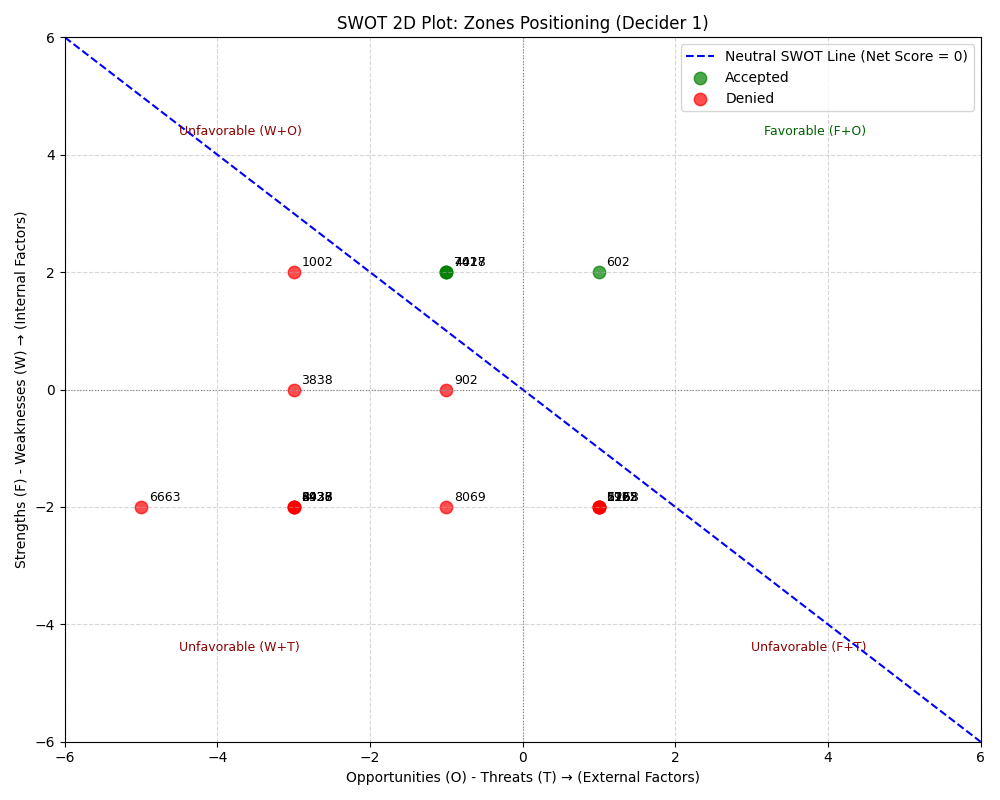
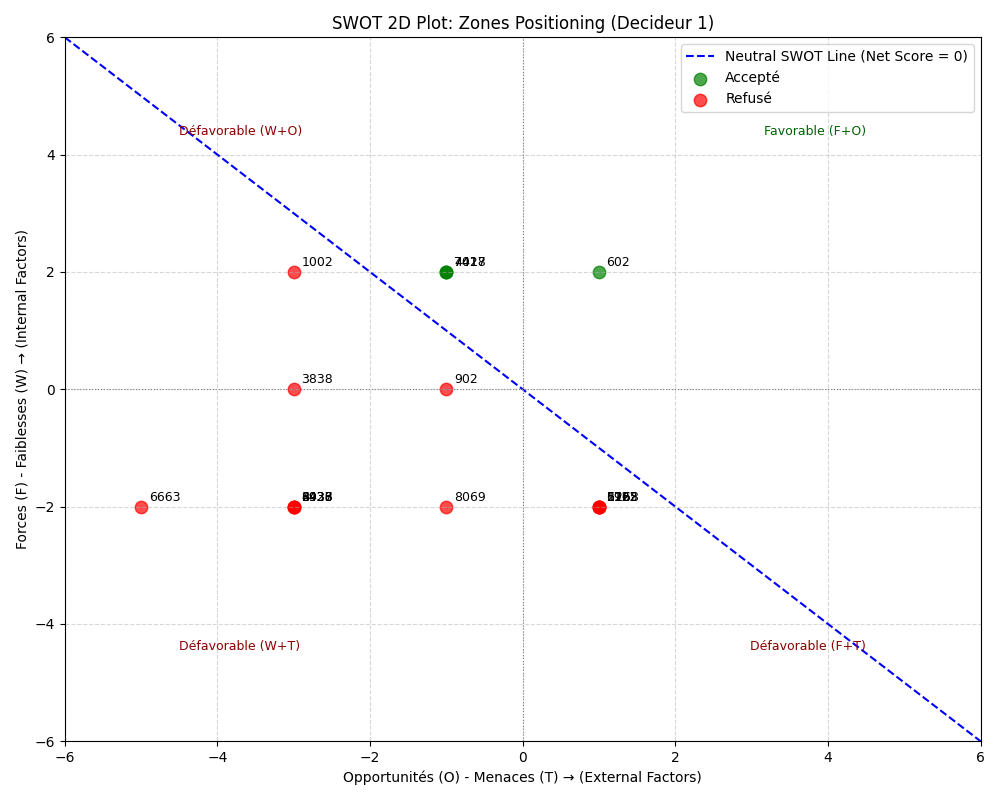
add promethee_minimize

diff --git a/core/decideur_logic.py b/core/decideur_logic.py
@@ -7,7 +7,7 @@ import matplotlib.pyplot as plt
 import os
 from io import StringIO
 
-# Ensure the 'static/images' directory exists for plots
+# Assurez-vous que le répertoire 'static/images' existe pour les plots
 PLOTS_DIR = os.path.join(os.getcwd(), 'static', 'images')
 os.makedirs(PLOTS_DIR, exist_ok=True)
 
@@ -107,7 +107,7 @@ def promethee_ii(columns, data_np, ids, w, p, q, maximize):
 
     return result, preference_matrix_df, discordance_matrix_df
 
-# --- SWOT Analysis Function ---
+# --- SWOT Analysis Function (No changes needed here) ---
 
 def calculate_swot_status(row, criteria_cols):
     swot_scores = {
@@ -171,24 +171,27 @@ def calculate_swot_status(row, criteria_cols):
 
 # --- Main Flask Logic Function ---
 
-def run_decideur_analysis(decideur_id, new_data_matrix_str, poids_str, seuil_p_str, seuil_q_str):
+def run_decideur_analysis(decideur_id, new_data_matrix_str, poids_str, seuil_p_str, seuil_q_str, promethee_manimize_flags=None):
+    if promethee_manimize_flags is None:
+        promethee_manimize_flags = [True, True, True, True, True, True, False]
+        
     try:
         try:
             poids = np.array([float(x.strip()) for x in poids_str.split(',') if x.strip()])
             seuil_p = np.array([float(x.strip()) for x in seuil_p_str.split(',') if x.strip()])
             seuil_q = np.array([float(x.strip()) for x in seuil_q_str.split(',') if x.strip()])
         except ValueError:
-            raise ValueError("Weights or thresholds (p, q) are badly formatted. Please use comma-separated numbers.")
+            raise ValueError("Les poids ou les seuils (p, q) sont mal formatés. Veuillez utiliser des nombres séparés par des virgules.")
         
         if poids.size == 0 or seuil_p.size == 0 or seuil_q.size == 0:
-            raise ValueError("Weight or threshold (p, q) lists cannot be empty. Please provide values.")
+            raise ValueError("Les listes de poids ou de seuils (p, q) ne peuvent pas être vides. Veuillez fournir des valeurs.")
 
         criteria_cols = ['NUISANCES', 'BRUIT', 'IMPACTS', 'GEOTECHNIQ', 'EQUIPEMENT', 'ACCESSIBIL', 'CLIMAT']
         
         if not (len(poids) == len(criteria_cols) and 
                 len(seuil_p) == len(criteria_cols) and 
                 len(seuil_q) == len(criteria_cols)):
-            raise ValueError(f"Inconsistency: The number of criteria ({len(criteria_cols)}) does not match the number of weights ({len(poids)}), preference thresholds ({len(seuil_p)}), or indifference thresholds ({len(seuil_q)}) provided. Please check your inputs.")
+            raise ValueError(f"Incohérence: Le nombre de critères ({len(criteria_cols)}) ne correspond pas au nombre de poids ({len(poids)}), seuils de préférence ({len(seuil_p)}) ou seuils d'indifférence ({len(seuil_q)}) fournis. Veuillez vérifier vos entrées.")
 
         selected_params = {
             'poids': poids.tolist(),
@@ -201,47 +204,45 @@ def run_decideur_analysis(decideur_id, new_data_matrix_str, poids_str, seuil_p_s
         if not new_data_matrix_str:
             nearest_points_path = os.path.join(os.path.dirname(__file__), '..', 'data', 'nearest_points_to_centroids.csv')
             if not os.path.exists(nearest_points_path):
-                raise FileNotFoundError(f"The file '{os.path.basename(nearest_points_path)}' is missing. It is generated by the K-Means analysis in the 'Negotiator Analysis' page.")
+                raise FileNotFoundError(f"Le fichier '{os.path.basename(nearest_points_path)}' est introuvable. Il est généré par l'analyse K-Means dans la page 'Analyse Négociateur'.")
             
             try:
                 df_input = pd.read_csv(nearest_points_path)
                 df_input.columns = df_input.columns.str.strip()
                 if 'ID_ZONE' not in df_input.columns:
-                     raise KeyError(f"The file '{os.path.basename(nearest_points_path)}' must contain a column 'ID_ZONE'.")
+                     raise KeyError(f"Le fichier '{os.path.basename(nearest_points_path)}' doit contenir une colonne 'ID_ZONE'.")
                 if not all(col in df_input.columns for col in criteria_cols):
                     missing_cols = [col for col in criteria_cols if col not in df_input.columns]
-                    raise KeyError(f"The file '{os.path.basename(nearest_points_path)}' does not contain all columns needed for PROMETHEE II analysis (missing: {', '.join(missing_cols)}).")
+                    raise KeyError(f"Le fichier '{os.path.basename(nearest_points_path)}' ne contient pas toutes les colonnes nécessaires pour l'analyse PROMETHEE II (manquantes : {', '.join(missing_cols)}).")
                 df_input = df_input[['ID_ZONE'] + criteria_cols].copy()
-                print(f"Data loaded from {os.path.basename(nearest_points_path)}")
+                print(f"Données chargées depuis {os.path.basename(nearest_points_path)}")
             except Exception as e:
-                raise ValueError(f"Error loading or processing the file '{os.path.basename(nearest_points_path)}': {e}")
+                raise ValueError(f"Erreur lors du chargement ou du traitement du fichier '{os.path.basename(nearest_points_path)}': {e}")
         else:
             new_data_io = StringIO(new_data_matrix_str)
             try:
                 df_input = pd.read_csv(new_data_io, header=None, names=['ID_ZONE'] + criteria_cols)
             except Exception as e:
-                raise ValueError(f"Error reading the provided Data Matrix: {e}. Make sure the format is correct (CSV type, no header, comma-separated columns) and the number of columns is correct.")
+                raise ValueError(f"Erreur lors de la lecture de la Matrice de Données fournie : {e}. Assurez-vous que le format est correct (type CSV, sans en-tête, colonnes séparées par des virgules) et que le nombre de colonnes est correct.")
             
             df_input['ID_ZONE'] = df_input['ID_ZONE'].astype(int)
             for col in criteria_cols:
                 df_input[col] = pd.to_numeric(df_input[col], errors='coerce')
             df_input.dropna(subset=criteria_cols, inplace=True)
-            print("Data loaded from the text area input.")
+            print("Données chargées à partir de l'entrée de la zone de texte.")
 
         if df_input.empty:
-            raise ValueError("No valid data could be loaded for analysis.")
+            raise ValueError("Aucune donnée valide n'a pu être chargée pour l'analyse.")
 
         ids = df_input['ID_ZONE'].values
         X = df_input[criteria_cols].values
 
-        promethee_maximize_flags = [True, True, True, True, True, True, False]
-        
-        ranking, preference_matrix_df, discordance_matrix_df = promethee_ii(criteria_cols, X, ids, poids, seuil_p, seuil_q, promethee_maximize_flags)
+        ranking, preference_matrix_df, discordance_matrix_df = promethee_ii(criteria_cols, X, ids, poids, seuil_p, seuil_q, promethee_manimize_flags)
 
         df_swot_calculated = df_input.apply(lambda row: calculate_swot_status(row, criteria_cols), axis=1)
         
         swot_columns_to_merge = ['ID_ZONE', 'F', 'W', 'O', 'T', 'Net_SWOT_Score', 'SWOT_Status', 'X_SWOT', 'Y_SWOT']
-        df_swot_final_for_plot_and_display = df_swot_calculated[swot_columns_to_merge].copy()
+        df_swot_final_for_plot_and_display = df_swot_calculated[swot_columns_to_merge].copy() # Renamed for clarity
 
         ranking_with_swot = pd.merge(ranking, df_swot_final_for_plot_and_display, on='ID_ZONE', how='left')
 
@@ -253,23 +254,24 @@ def run_decideur_analysis(decideur_id, new_data_matrix_str, poids_str, seuil_p_s
 
         def apply_decision(row, top_n_limit):
             if row['Rank'] <= top_n_limit:
-                return "Accepted" if row['SWOT_Status'] == "Positive SWOT" else "Denied"
+                return "Accepté" if row['SWOT_Status'] == "Positive SWOT" else "Refusé"
             else:
-                return "Denied"
+                return "Refusé"
 
         ranking_with_swot['Decision'] = ranking_with_swot.apply(lambda row: apply_decision(row, top_n), axis=1)
 
+        # final_result_for_display still contains X_SWOT and Y_SWOT for plotting
         final_result_for_display = ranking_with_swot[['ID_ZONE', 'Rank', 'SWOT_Status', 'Decision', 'X_SWOT', 'Y_SWOT']].copy()
-        print("\n=== Final Decision (All actions, top 50% evaluated by SWOT) ===")
+        print("\n=== Décision Finale (Toutes les actions, top 50% évalué par SWOT) ===")
         print(final_result_for_display)
         
         # Prepare data for CSV file (EXCLUDE X_SWOT, Y_SWOT)
-        final_result_for_save = ranking_with_swot[['ID_ZONE', 'Rank', 'SWOT_Status', 'Decision']].copy()
+        final_result_for_save = ranking_with_swot[['ID_ZONE', 'Rank', 'SWOT_Status', 'Decision']].copy() # Exclude X_SWOT, Y_SWOT
         
         decision_filename = f"decision_final_decideur_{decideur_id}.csv"
         decision_file_path = os.path.join(os.path.dirname(__file__), '..', 'data', decision_filename)
-        final_result_for_save.to_csv(decision_file_path, index=False, encoding='utf-8-sig')
-        print(f"\nDecision file '{decision_filename}' saved for the negotiator.")
+        final_result_for_save.to_csv(decision_file_path, index=False, encoding='utf-8-sig') # Save this version
+        print(f"\nFichier de décision '{decision_filename}' sauvegardé pour le négociateur.")
 
         # --- Generate SWOT Plot ---
         plt.figure(figsize=(10, 8))
@@ -279,25 +281,25 @@ def run_decideur_analysis(decideur_id, new_data_matrix_str, poids_str, seuil_p_s
         x_line = np.linspace(-plot_limit, plot_limit, 100)
         plt.plot(x_line, -x_line, color='blue', linestyle='--', label='Neutral SWOT Line (Net Score = 0)')
 
-        colors_map = {'Accepted': 'green', 'Denied': 'red'}
+        colors_map = {'Accepté': 'green', 'Refusé': 'red'}
 
         if not final_result_for_display.empty:
-            accepted_points = final_result_for_display[final_result_for_display['Decision'] == 'Accepted']
-            refused_points = final_result_for_display[final_result_for_display['Decision'] == 'Denied']
+            accepted_points = final_result_for_display[final_result_for_display['Decision'] == 'Accepté']
+            refused_points = final_result_for_display[final_result_for_display['Decision'] == 'Refusé']
 
             if not accepted_points.empty:
                 plt.scatter(accepted_points['X_SWOT'], accepted_points['Y_SWOT'], 
-                            color=colors_map['Accepted'], s=80, alpha=0.7, label='Accepted')
+                            color=colors_map['Accepté'], s=80, alpha=0.7, label='Accepté')
             if not refused_points.empty:
                 plt.scatter(refused_points['X_SWOT'], refused_points['Y_SWOT'], 
-                            color=colors_map['Denied'], s=80, alpha=0.7, label='Denied')
+                            color=colors_map['Refusé'], s=80, alpha=0.7, label='Refusé')
 
             for i, row in final_result_for_display.iterrows():
                 plt.text(row['X_SWOT'] + 0.1, row['Y_SWOT'] + 0.1, str(int(row['ID_ZONE'])), fontsize=9, color='black')
 
-        plt.title(f"SWOT 2D Plot: Zones Positioning (Decider {decideur_id})")
-        plt.xlabel("Opportunities (O) - Threats (T) → (External Factors)")
-        plt.ylabel("Strengths (F) - Weaknesses (W) → (Internal Factors)")
+        plt.title(f"SWOT 2D Plot: Zones Positioning (Decideur {decideur_id})")
+        plt.xlabel("Opportunités (O) - Menaces (T) → (External Factors)")
+        plt.ylabel("Forces (F) - Faiblesses (W) → (Internal Factors)")
 
         plt.xlim(-plot_limit, plot_limit)
         plt.ylim(-plot_limit, plot_limit)
@@ -306,9 +308,9 @@ def run_decideur_analysis(decideur_id, new_data_matrix_str, poids_str, seuil_p_s
         plt.axhline(0, color='grey', linestyle=':', linewidth=0.8)
         
         plt.text(0.75 * plot_limit, 0.75 * plot_limit, "Favorable (F+O)", fontsize=9, color='darkgreen', ha='right', va='top')
-        plt.text(0.75 * plot_limit, -0.75 * plot_limit, "Unfavorable (F+T)", fontsize=9, color='darkred', ha='right', va='bottom')
-        plt.text(-0.75 * plot_limit, 0.75 * plot_limit, "Unfavorable (W+O)", fontsize=9, color='darkred', ha='left', va='top')
-        plt.text(-0.75 * plot_limit, -0.75 * plot_limit, "Unfavorable (W+T)", fontsize=9, color='darkred', ha='left', va='bottom')
+        plt.text(0.75 * plot_limit, -0.75 * plot_limit, "Défavorable (F+T)", fontsize=9, color='darkred', ha='right', va='bottom')
+        plt.text(-0.75 * plot_limit, 0.75 * plot_limit, "Défavorable (W+O)", fontsize=9, color='darkred', ha='left', va='top')
+        plt.text(-0.75 * plot_limit, -0.75 * plot_limit, "Défavorable (W+T)", fontsize=9, color='darkred', ha='left', va='bottom')
 
         plt.grid(True, linestyle='--', alpha=0.5)
         plt.legend()
@@ -336,10 +338,11 @@ def run_decideur_analysis(decideur_id, new_data_matrix_str, poids_str, seuil_p_s
             'preference_matrix': preference_matrix_display,
             'discordance_matrix': discordance_matrix_display,
             'ranking_table': ranking.to_html(classes='table table-striped table-bordered', index=False),
+            # IMPORTANT: Use the new variable here that excludes X_SWOT and Y_SWOT for HTML display
             'final_decision_data': final_decision_table_data_for_html, 
             'swot_plot_path': '/static/images/' + plot_filename
         }
 
     except Exception as e:
-        print(f"Error in run_decideur_analysis: {e}")
+        print(f"Erreur dans run_decideur_analysis: {e}")
         raise e

diff --git a/app.py b/app.py
@@ -72,6 +72,9 @@ DECIDER_PRESET_PARAMS = {
         'seuil_q': [0.25, 0.3, 0.15, 45, 3, 0.25, 0.25]},
 }
 
+# Global PROMETHEE maximize flags (default)
+PROMETHEE_MINIMIZE_FLAGS = [True, True, True, True, True, True, False]
+
 # Utility function for cleaning up files
 def cleanup_decision_files():
     """Removes decision files and the nearest_points_to_centroids.csv file."""
@@ -179,7 +182,8 @@ def decideur_page():
                 new_data_matrix_str, 
                 poids_input_str, 
                 seuil_p_input_str, 
-                seuil_q_input_str
+                seuil_q_input_str,
+                PROMETHEE_MINIMIZE_FLAGS
             )
             
             # Pass the plot URL for HTML display
@@ -208,48 +212,67 @@ def decideur_page():
 
 @app.route('/negociateur', methods=['GET', 'POST'])
 def negociateur_page():
-    """Handles the Negotiator Analysis page, displaying K-Means and negotiation results."""
+    global PROMETHEE_MINIMIZE_FLAGS
     best_action_result = None
     kmeans_results = None
     error = None
-    kmeans_data_path_used = None # To inform the user which file was used for K-Means
+    kmeans_data_path_used = None
 
-    # Determine which file to use for K-Means analysis
     uploaded_file_path = None
     try:
-        # Check if a file was uploaded via POST request
         if request.method == 'POST' and 'data_file' in request.files:
             file = request.files['data_file']
             if file and allowed_file(file.filename):
-                # Create a unique and secure filename for the uploaded file
                 filename = secure_filename(file.filename)
                 unique_filename = str(uuid.uuid4()) + '_' + filename
                 uploaded_file_path = os.path.join(app.config['UPLOAD_FOLDER'], unique_filename)
                 file.save(uploaded_file_path)
-                kmeans_data_path_used = uploaded_file_path # K-Means will use this file
+                kmeans_data_path_used = uploaded_file_path
                 print(f"Uploaded file saved as: {uploaded_file_path}")
+
+                # --- Only set PROMETHEE_MINIMIZE_FLAGS if a line starts with 'promethee_minimize' ---
+                try:
+                    with open(uploaded_file_path, 'r', encoding='utf-8') as f:
+                        for line in f:
+                            line = line.strip()
+                            if line.lower().startswith('promethee_minimize'):
+                                parts = [v.strip().lower() for v in line.split(',')[1:]]
+                                bool_map = {'true': True, 'false': False, '1': True, '0': False}
+                                if all(v in bool_map for v in parts) and len(parts) >= 7:
+                                    PROMETHEE_MINIMIZE_FLAGS = [bool_map[v] for v in parts[:7]]
+                                    print(f"PROMETHEE_MINIMIZE_FLAGS set from CSV: {PROMETHEE_MINIMIZE_FLAGS}")
+                                else:
+                                    PROMETHEE_MINIMIZE_FLAGS = [True, True, True, True, True, True, False]
+                                    print("PROMETHEE_MINIMIZE_FLAGS set to default (invalid or not found in CSV).")
+                                break
+                        else:
+                            PROMETHEE_MINIMIZE_FLAGS = [True, True, True, True, True, True, False]
+                except Exception as e:
+                    PROMETHEE_MINIMIZE_FLAGS = [True, True, True, True, True, True, False]
+                    print(f"Error reading PROMETHEE_MINIMIZE_FLAGS from CSV: {e}")
             elif file and not allowed_file(file.filename):
                 error = "File type not allowed. Please upload a CSV file."
-        
         # If no file is uploaded or it's invalid, try to use the default data_complet.csv file
         if not kmeans_data_path_used:
             default_data_path = os.path.join(DATA_DIR, 'data_complet.csv')
             if os.path.exists(default_data_path):
                 kmeans_data_path_used = default_data_path
+                PROMETHEE_MINIMIZE_FLAGS = [True, True, True, True, True, True, False]
             else:
                 if not error:
                     error = "File 'data_complet.csv' not found in the 'data/' folder. Please upload or place it in the 'data/' folder."
 
-        # --- K-Means Analysis (runs if a valid data path is available) ---
+        # --- K-Means Analysis (do NOT use promethee_minimize line in data) ---
         if kmeans_data_path_used:
+            # Only use the data rows, skip any 'promethee_minimize' line for KMeans
+            # But since run_kmeans_analysis expects a file path, and the function itself should not care about the special line,
+            # we do not change the file or function here.
             kmeans_results = run_kmeans_analysis(kmeans_data_path_used)
-            # Add plot URL to results for HTML display
             if 'kmeans_plot_path' in kmeans_results:
                 kmeans_results['kmeans_plot_url'] = '/static/images/' + os.path.basename(kmeans_results['kmeans_plot_path'])
         else:
             if not error:
                 error = "No data file is available for K-Means analysis."
-
     except Exception as e:
         error = f"Error during K-Means analysis: {e}"
         print(f"K-Means error: {e}") # Log error for debugging

diff --git a/core/clustering_analysis.py b/core/clustering_analysis.py
@@ -19,7 +19,15 @@ def run_kmeans_analysis(data_file_path, n_clusters=3, n_nearest_points=6):
     try:
         # === Load and prepare data ===
         df = pd.read_csv(data_file_path)
-        df.rename(columns={df.columns[0]: 'ID_ZONE'}, inplace=True)
+        # Remove any row where the first column is 'promethee_minimize' (case-insensitive)
+        first_col = df.columns[0]
+        df = df[~df[first_col].astype(str).str.lower().eq('promethee_minimize')]
+        df.rename(columns={first_col: 'ID_ZONE'}, inplace=True)
+        # Ensure all columns except 'ID_ZONE' are numeric
+        for col in df.columns:
+            if col != 'ID_ZONE':
+                df[col] = pd.to_numeric(df[col], errors='coerce')
+        df = df.dropna(subset=[col for col in df.columns if col != 'ID_ZONE'])
         X = df.drop(columns=['ID_ZONE'])
 
         # === Apply KMeans ===
